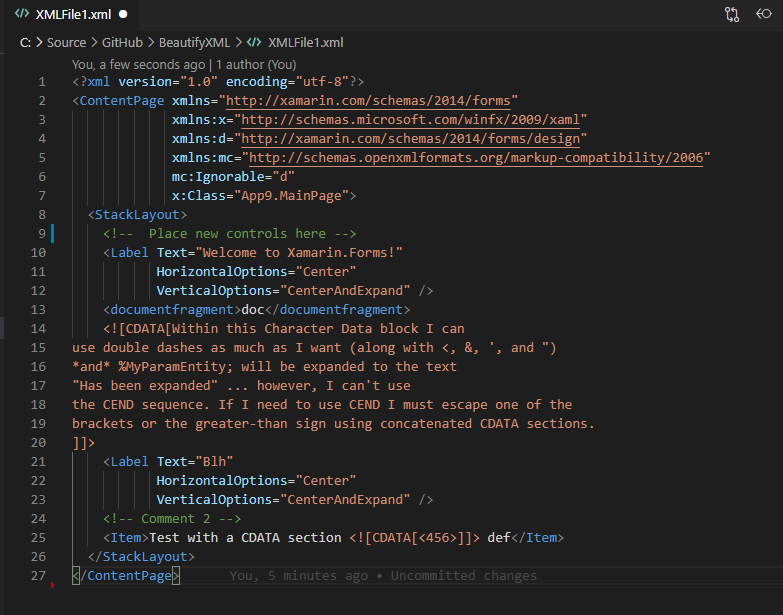
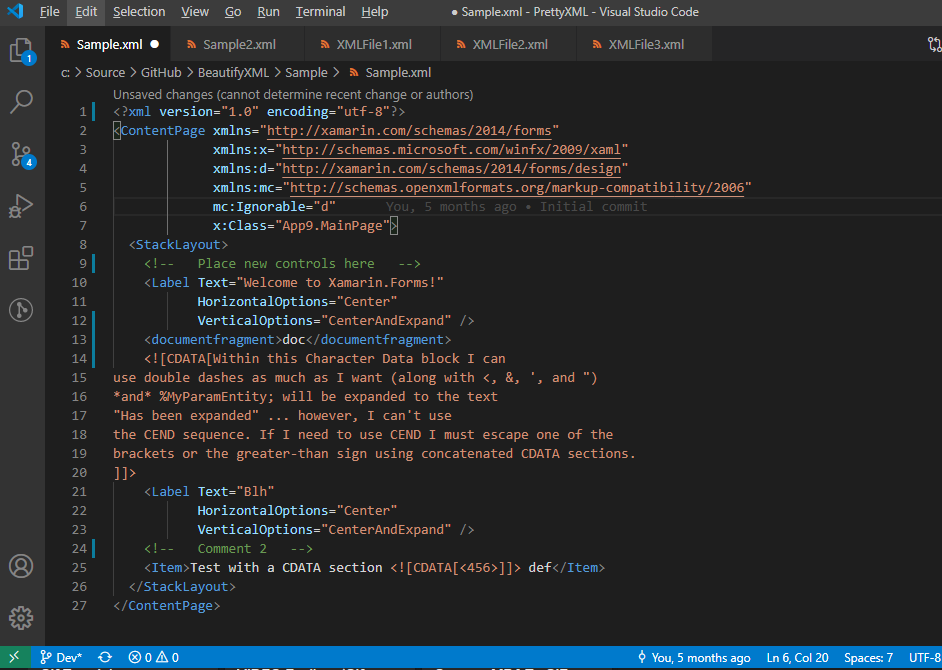
Readme ChangeLog updated example gif and screenshot updated

diff --git a/CHANGELOG.md b/CHANGELOG.md
@@ -2,15 +2,19 @@
 
 ## Preview
 
-### 0.0.10
-Changed keybinding to **Cmd+K L** for Mac and **Control+K L** for other platforms.
+### 0.1.0
 
-**Fixes:**
-- [This extension stop native ctrl+p in vscode #7](https://github.com/pmahend1/PrettyXML/issues/7)
+- Webpack bundling.
+- TypeScript upgraded to version 4.
+
+### 0.0.10
+
+- Changed keybinding to **Cmd+K L** for Mac and **Control+K L** for other platforms.
+- Fixes [This extension stop native ctrl+p in vscode #7](https://github.com/pmahend1/PrettyXML/issues/7)
+
 ### 0.0.8 & 0.0.9
 
 Fixes [Issue 4- Rewrite &amp; to & (Which break legal xml format)](https://github.com/pmahend1/PrettyXML/issues/4)
-
 
 ### 0.0.7
 

diff --git a/README.md b/README.md
@@ -38,16 +38,7 @@ Issues can be reported at [Issues sections](https://github.com/pmahend1/PrettyXM
 
 ## Release Notes
 
-### 0.0.10
-Changed keybinding to **Cmd+K L** for Mac and **Control+K L** for other platforms.
-
-### 0.0.8
-
-Fixes [Issue 4- Rewrite &amp; to & (Which break legal xml format)](https://github.com/pmahend1/PrettyXML/issues/4)
-
-### 0.0.7
-
-Initial preview release
+See [Change Log](./CHANGELOG.md)  
 
 ### For more information
 
